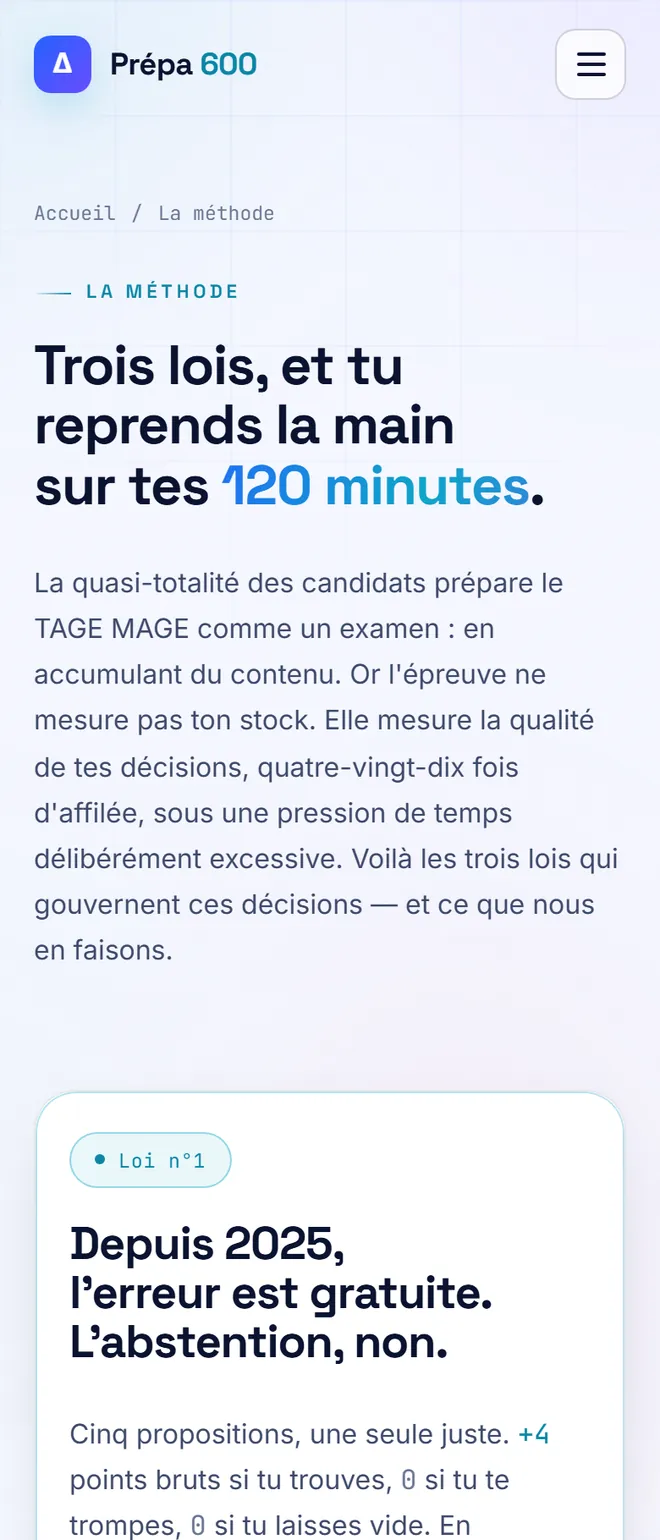
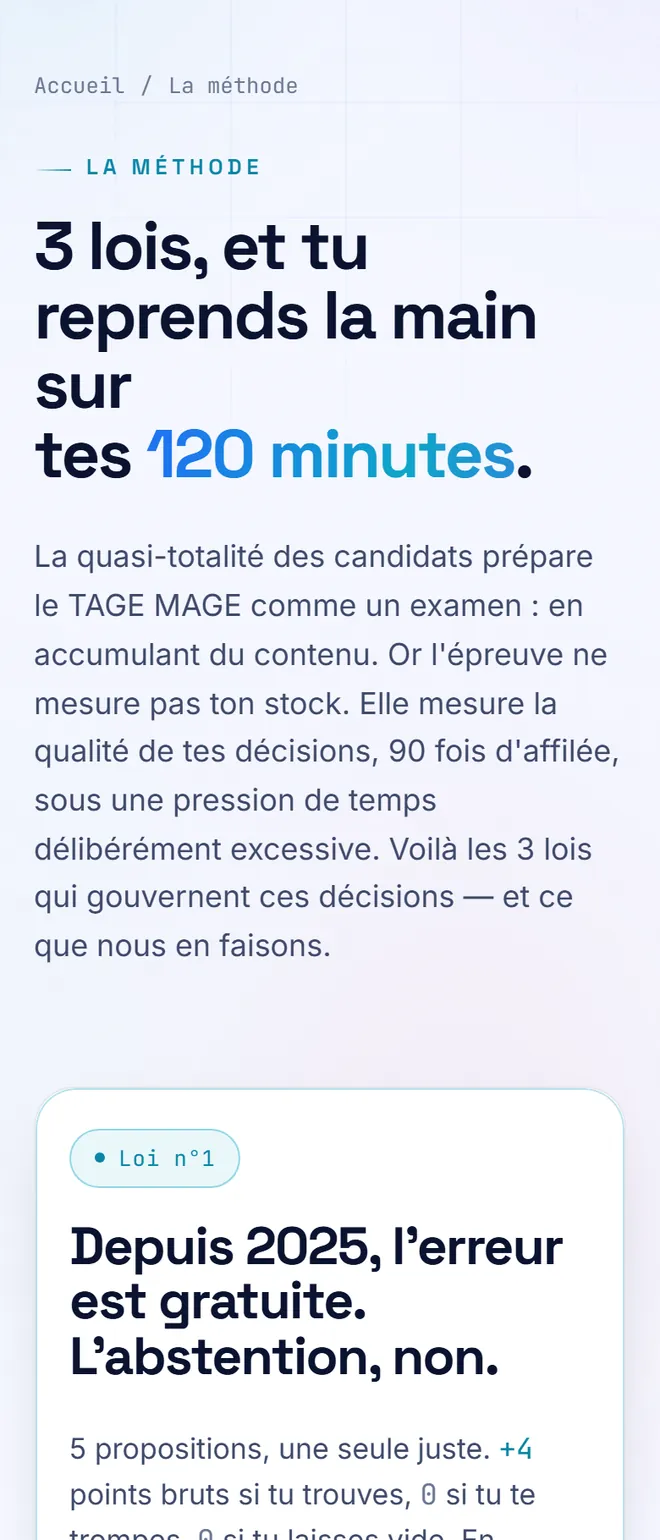
Les six ecrans du recit Prepa 600 illustrent enfin leur etape
« On ne sait pas du tout pourquoi ca arrive sur calcul ton score », « le
visuel, ce n est que du texte » (Anthony). Les ecrans ne racontaient pas la
meme chose que les etapes, et ils etaient cadres sur le haut des pages --
c est-a-dire sur un titre et du texte.

Nouvelle attribution : l idee → l accueil, la methode a lire → methode, les
six sous-tests → reviser, le prix → tarifs, ce que le premier utilisateur
decouvre → le simulateur, les pages que les assistants citent → le
convertisseur d ecoles. Le test lui-meme et le rapport ne sont pas
capturables : sans compte, ils renvoient l ecran de connexion (verifie).

Et le cadrage ne se choisit plus a la main :
- capturer_cdp.py releve les DEBUTS DE BLOCS de la page et l offset du pied,
  et les ecrit a cote de la capture ;
- rafraichir.py fait glisser la fenetre sur toute la page, note chaque
  position (couleur + densite de contours), garde la meilleure, la cale sur
  un debut de bloc et refuse de finir sur le pied de page.
Le rafraichissement hebdomadaire refera donc ce choix tout seul.

Resultat : des curseurs, un score sur 600, le top 3 des ecoles, des cartes
entieres -- plus un seul ecran coupe au milieu d une carte.

diff --git a/src/pages/prepa-600.html b/src/pages/prepa-600.html
@@ -31,7 +31,7 @@ modifie: 2026-09-06
 <section class="sec sec-filet recit" id="recit">
   <div class="wrap recit-grille" data-recit>
     <div class="recit-colle">
-      <div class="tel tel-grand"><div class="tel-ecran recit-tel"><span class="tel-encoche" aria-hidden="true"></span><img class="actif" src="/assets/img/p600-accueil-tel.webp" alt="[[L'accueil||Home]]" data-page="prepa600.com"><img src="/assets/img/p600-methode-tel.webp" alt="[[La méthode||The method]]" data-page="prepa600.com/methode.html"><img src="/assets/img/p600-diagnostic-tel.webp" alt="[[Le test blanc||The mock test]]" data-page="prepa600.com/diagnostic.html"><img src="/assets/img/p600-tarifs-tel.webp" alt="[[Les tarifs||Prices]]" data-page="prepa600.com/tarifs.html"><img src="/assets/img/p600-calcul-tel.webp" alt="[[Le calcul du score||The score calculator]]" data-page="prepa600.com/calcul-score.html"><img src="/assets/img/p600-questions-tel.webp" alt="[[Les questions fréquentes||The FAQ]]" data-page="prepa600.com/questions-tage-mage.html"></div></div>
+      <div class="tel tel-grand"><div class="tel-ecran recit-tel"><span class="tel-encoche" aria-hidden="true"></span><img class="actif" src="/assets/img/p600-accueil-tel.webp" alt="[[L'accueil||Home]]" data-page="prepa600.com"><img src="/assets/img/p600-methode-tel.webp" alt="[[La méthode||The method]]" data-page="prepa600.com/methode.html"><img src="/assets/img/p600-reviser-tel.webp" alt="[[Les six fiches de révision, une par sous-test||The six revision sheets, one per sub-test]]" data-page="prepa600.com/reviser.html"><img src="/assets/img/p600-tarifs-tel.webp" alt="[[Les tarifs||Prices]]" data-page="prepa600.com/tarifs.html"><img src="/assets/img/p600-simulateur-tel.webp" alt="[[Le simulateur : les points laissés sur la table||The simulator: the points left on the table]]" data-page="prepa600.com/simulateur.html"><img src="/assets/img/p600-score-ecoles-tel.webp" alt="[[Le convertisseur : quel score pour quelle école||The converter: which score for which school]]" data-page="prepa600.com/score-ecoles.html"></div></div>
       <p class="recit-leg"><span data-recit-leg>prepa600.com</span> · [[aujourd'hui||today]]</p>
     </div>
     <ol class="recit-etapes">
@@ -40,7 +40,7 @@ modifie: 2026-09-06
       <li class="recit-etape" data-ecran="2"><time datetime="2026-08-30">[[30 août||30 August]]</time><h3>[[L'épreuve, écrite.||The test, written.]]</h3><p>[[Les <b>six sous-tests</b> de l'épreuve officielle, <b>six blancs complets</b>, et la plateforme de bout en bout : comptes, chronomètre côté serveur, rapports, pilotage.||The <b>six sub-tests</b> of the official exam, <b>six complete mock tests</b>, and the platform end to end: accounts, server-side timer, reports, dashboard.]]</p><p class="recit-fait"><b>6</b> [[blancs complets||complete mock tests]]</p></li>
       <li class="recit-etape" data-ecran="3"><time datetime="2026-08-31">[[31 août||31 August]]</time><h3>[[Un seul prix.||One price.]]</h3><p>[[<b>{{f:p600.prix}} €</b>, une seule fois, <b>{{f:p600.mois}} mois</b> d'accès, sans abonnement ; tarif boursier {{f:p600.prix_boursier}} €. La caisse ouvre l'accès à la seconde.||<b>€{{f:p600.prix}}</b>, paid once, <b>{{f:p600.mois}} months</b> of access, no subscription; scholarship price €{{f:p600.prix_boursier}}. Checkout opens access within the second.]]</p><p class="recit-fait"><b>{{f:p600.prix}} €</b> [[une seule fois||paid once]]</p></li>
       <li class="recit-etape" data-ecran="4"><time datetime="2026-08-31">[[31 août, le soir||31 August, evening]]</time><h3>[[Le premier utilisateur.||The first user.]]</h3><p>[[Le soir même, <b>un premier compte s'ouvre</b> et un premier blanc se joue. <b>Six jours</b> entre l'idée et son premier candidat.||That same evening, <b>a first account opens</b> and a first mock test is taken. <b>Six days</b> between the idea and its first candidate.]]</p><p class="recit-fait"><b>J+6</b> [[premier compte||first account]]</p></li>
-      <li class="recit-etape" data-ecran="5"><time datetime="{{f:total.releve}}">[[Aujourd'hui||Today]]</time><h3>[[Trouvé sans publicité.||Found without ads.]]</h3><p>[[Les pages sont écrites pour être lues par les <b>assistants IA</b> autant que par Google : ils citent Prépa 600 parmi les premiers, et des comptes s'ouvrent <b>sans une publicité</b>. La banque grandit : <b>{{f:p600.questions}} questions</b>, <b>{{f:p600.blancs}} blancs</b>.||The pages are written to be read by <b>AI assistants</b> as much as by Google: they cite Prépa 600 among the first, and accounts open <b>without a single ad</b>. The bank grows: <b>{{f:p600.questions}} questions</b>, <b>{{f:p600.blancs}} mock tests</b>.]]</p><p class="recit-fait"><b>{{f:p600.questions}}</b> [[questions écrites||questions written]]</p></li>
+      <li class="recit-etape" data-ecran="5"><time datetime="{{f:total.releve}}">[[Aujourd'hui||Today]]</time><h3>[[Trouvé sans publicité.||Found without ads.]]</h3><p>[[Des pages comme celle-ci sont écrites pour être lues par les <b>assistants IA</b> autant que par Google : ils citent Prépa 600 parmi les premiers, et des comptes s'ouvrent <b>sans une publicité</b>. La banque grandit : <b>{{f:p600.questions}} questions</b>, <b>{{f:p600.blancs}} blancs</b>.||Pages like this one are written to be read by <b>AI assistants</b> as much as by Google: they cite Prépa 600 among the first, and accounts open <b>without a single ad</b>. The bank grows: <b>{{f:p600.questions}} questions</b>, <b>{{f:p600.blancs}} mock tests</b>.]]</p><p class="recit-fait"><b>{{f:p600.questions}}</b> [[questions écrites||questions written]]</p></li>
     </ol>
   </div>
 </section>

diff --git a/public/fr/prepa-600/index.html b/public/fr/prepa-600/index.html
@@ -192,7 +192,7 @@
 <section class="sec sec-filet recit" id="recit">
   <div class="wrap recit-grille" data-recit>
     <div class="recit-colle">
-      <div class="tel tel-grand"><div class="tel-ecran recit-tel"><span class="tel-encoche" aria-hidden="true"></span><img width="660" height="1540" loading="eager" decoding="async" class="actif" src="/assets/img/p600-accueil-tel.webp?v=c9694b99" alt="L'accueil" data-page="prepa600.com"><img width="660" height="1540" loading="eager" decoding="async" src="/assets/img/p600-methode-tel.webp?v=205338ab" alt="La méthode" data-page="prepa600.com/methode.html"><img width="660" height="1540" loading="eager" decoding="async" src="/assets/img/p600-diagnostic-tel.webp?v=8518ea68" alt="Le test blanc" data-page="prepa600.com/diagnostic.html"><img width="660" height="1540" loading="eager" decoding="async" src="/assets/img/p600-tarifs-tel.webp?v=931468d7" alt="Les tarifs" data-page="prepa600.com/tarifs.html"><img width="660" height="1540" loading="eager" decoding="async" src="/assets/img/p600-calcul-tel.webp?v=139f78f8" alt="Le calcul du score" data-page="prepa600.com/calcul-score.html"><img width="660" height="1540" loading="eager" decoding="async" src="/assets/img/p600-questions-tel.webp?v=b2ea3d62" alt="Les questions fréquentes" data-page="prepa600.com/questions-tage-mage.html"></div></div>
+      <div class="tel tel-grand"><div class="tel-ecran recit-tel"><span class="tel-encoche" aria-hidden="true"></span><img width="660" height="1540" loading="eager" decoding="async" class="actif" src="/assets/img/p600-accueil-tel.webp?v=566808f8" alt="L'accueil" data-page="prepa600.com"><img width="660" height="1540" loading="eager" decoding="async" src="/assets/img/p600-methode-tel.webp?v=be499328" alt="La méthode" data-page="prepa600.com/methode.html"><img width="660" height="1540" loading="eager" decoding="async" src="/assets/img/p600-reviser-tel.webp?v=7cb586dc" alt="Les six fiches de révision, une par sous-test" data-page="prepa600.com/reviser.html"><img width="660" height="1540" loading="eager" decoding="async" src="/assets/img/p600-tarifs-tel.webp?v=8d86a01a" alt="Les tarifs" data-page="prepa600.com/tarifs.html"><img width="660" height="1540" loading="eager" decoding="async" src="/assets/img/p600-simulateur-tel.webp?v=c245ecd2" alt="Le simulateur : les points laissés sur la table" data-page="prepa600.com/simulateur.html"><img width="660" height="1540" loading="eager" decoding="async" src="/assets/img/p600-score-ecoles-tel.webp?v=ee073fdf" alt="Le convertisseur : quel score pour quelle école" data-page="prepa600.com/score-ecoles.html"></div></div>
       <p class="recit-leg"><span data-recit-leg>prepa600.com</span> · aujourd'hui</p>
     </div>
     <ol class="recit-etapes">
@@ -201,7 +201,7 @@
       <li class="recit-etape" data-ecran="2"><time datetime="2026-08-30">30 août</time><h3>L'épreuve, écrite.</h3><p>Les <b>six sous-tests</b> de l'épreuve officielle, <b>six blancs complets</b>, et la plateforme de bout en bout : comptes, chronomètre côté serveur, rapports, pilotage.</p><p class="recit-fait"><b>6</b> blancs complets</p></li>
       <li class="recit-etape" data-ecran="3"><time datetime="2026-08-31">31 août</time><h3>Un seul prix.</h3><p><b>49 €</b>, une seule fois, <b>4 mois</b> d'accès, sans abonnement ; tarif boursier 20 €. La caisse ouvre l'accès à la seconde.</p><p class="recit-fait"><b>49 €</b> une seule fois</p></li>
       <li class="recit-etape" data-ecran="4"><time datetime="2026-08-31">31 août, le soir</time><h3>Le premier utilisateur.</h3><p>Le soir même, <b>un premier compte s'ouvre</b> et un premier blanc se joue. <b>Six jours</b> entre l'idée et son premier candidat.</p><p class="recit-fait"><b>J+6</b> premier compte</p></li>
-      <li class="recit-etape" data-ecran="5"><time datetime="2026-09-06">Aujourd'hui</time><h3>Trouvé sans publicité.</h3><p>Les pages sont écrites pour être lues par les <b>assistants IA</b> autant que par Google : ils citent Prépa 600 parmi les premiers, et des comptes s'ouvrent <b>sans une publicité</b>. La banque grandit : <b>2 700 questions</b>, <b>30 blancs</b>.</p><p class="recit-fait"><b>2 700</b> questions écrites</p></li>
+      <li class="recit-etape" data-ecran="5"><time datetime="2026-09-06">Aujourd'hui</time><h3>Trouvé sans publicité.</h3><p>Des pages comme celle-ci sont écrites pour être lues par les <b>assistants IA</b> autant que par Google : ils citent Prépa 600 parmi les premiers, et des comptes s'ouvrent <b>sans une publicité</b>. La banque grandit : <b>2 700 questions</b>, <b>30 blancs</b>.</p><p class="recit-fait"><b>2 700</b> questions écrites</p></li>
     </ol>
   </div>
 </section>

diff --git a/public/prepa-600/index.html b/public/prepa-600/index.html
@@ -192,7 +192,7 @@
 <section class="sec sec-filet recit" id="recit">
   <div class="wrap recit-grille" data-recit>
     <div class="recit-colle">
-      <div class="tel tel-grand"><div class="tel-ecran recit-tel"><span class="tel-encoche" aria-hidden="true"></span><img width="660" height="1540" loading="eager" decoding="async" class="actif" src="/assets/img/p600-accueil-tel.webp?v=c9694b99" alt="Home" data-page="prepa600.com"><img width="660" height="1540" loading="eager" decoding="async" src="/assets/img/p600-methode-tel.webp?v=205338ab" alt="The method" data-page="prepa600.com/methode.html"><img width="660" height="1540" loading="eager" decoding="async" src="/assets/img/p600-diagnostic-tel.webp?v=8518ea68" alt="The mock test" data-page="prepa600.com/diagnostic.html"><img width="660" height="1540" loading="eager" decoding="async" src="/assets/img/p600-tarifs-tel.webp?v=931468d7" alt="Prices" data-page="prepa600.com/tarifs.html"><img width="660" height="1540" loading="eager" decoding="async" src="/assets/img/p600-calcul-tel.webp?v=139f78f8" alt="The score calculator" data-page="prepa600.com/calcul-score.html"><img width="660" height="1540" loading="eager" decoding="async" src="/assets/img/p600-questions-tel.webp?v=b2ea3d62" alt="The FAQ" data-page="prepa600.com/questions-tage-mage.html"></div></div>
+      <div class="tel tel-grand"><div class="tel-ecran recit-tel"><span class="tel-encoche" aria-hidden="true"></span><img width="660" height="1540" loading="eager" decoding="async" class="actif" src="/assets/img/p600-accueil-tel.webp?v=566808f8" alt="Home" data-page="prepa600.com"><img width="660" height="1540" loading="eager" decoding="async" src="/assets/img/p600-methode-tel.webp?v=be499328" alt="The method" data-page="prepa600.com/methode.html"><img width="660" height="1540" loading="eager" decoding="async" src="/assets/img/p600-reviser-tel.webp?v=7cb586dc" alt="The six revision sheets, one per sub-test" data-page="prepa600.com/reviser.html"><img width="660" height="1540" loading="eager" decoding="async" src="/assets/img/p600-tarifs-tel.webp?v=8d86a01a" alt="Prices" data-page="prepa600.com/tarifs.html"><img width="660" height="1540" loading="eager" decoding="async" src="/assets/img/p600-simulateur-tel.webp?v=c245ecd2" alt="The simulator: the points left on the table" data-page="prepa600.com/simulateur.html"><img width="660" height="1540" loading="eager" decoding="async" src="/assets/img/p600-score-ecoles-tel.webp?v=ee073fdf" alt="The converter: which score for which school" data-page="prepa600.com/score-ecoles.html"></div></div>
       <p class="recit-leg"><span data-recit-leg>prepa600.com</span> · today</p>
     </div>
     <ol class="recit-etapes">
@@ -201,7 +201,7 @@
       <li class="recit-etape" data-ecran="2"><time datetime="2026-08-30">30 August</time><h3>The test, written.</h3><p>The <b>six sub-tests</b> of the official exam, <b>six complete mock tests</b>, and the platform end to end: accounts, server-side timer, reports, dashboard.</p><p class="recit-fait"><b>6</b> complete mock tests</p></li>
       <li class="recit-etape" data-ecran="3"><time datetime="2026-08-31">31 August</time><h3>One price.</h3><p><b>€49</b>, paid once, <b>4 months</b> of access, no subscription; scholarship price €20. Checkout opens access within the second.</p><p class="recit-fait"><b>49 €</b> paid once</p></li>
       <li class="recit-etape" data-ecran="4"><time datetime="2026-08-31">31 August, evening</time><h3>The first user.</h3><p>That same evening, <b>a first account opens</b> and a first mock test is taken. <b>Six days</b> between the idea and its first candidate.</p><p class="recit-fait"><b>J+6</b> first account</p></li>
-      <li class="recit-etape" data-ecran="5"><time datetime="2026-09-06">Today</time><h3>Found without ads.</h3><p>The pages are written to be read by <b>AI assistants</b> as much as by Google: they cite Prépa 600 among the first, and accounts open <b>without a single ad</b>. The bank grows: <b>2,700 questions</b>, <b>30 mock tests</b>.</p><p class="recit-fait"><b>2,700</b> questions written</p></li>
+      <li class="recit-etape" data-ecran="5"><time datetime="2026-09-06">Today</time><h3>Found without ads.</h3><p>Pages like this one are written to be read by <b>AI assistants</b> as much as by Google: they cite Prépa 600 among the first, and accounts open <b>without a single ad</b>. The bank grows: <b>2,700 questions</b>, <b>30 mock tests</b>.</p><p class="recit-fait"><b>2,700</b> questions written</p></li>
     </ol>
   </div>
 </section>

diff --git a/public/fr/index.html b/public/fr/index.html
@@ -213,7 +213,7 @@
         <ul class="chiffres">
           <li><b>2 700</b> questions</li>
           <li><b>16</b> fonctions serveur</li>
-          <li><b>28</b> pages</li>
+          <li><b>27</b> pages</li>
         </ul>
         <div class="actions">
           <a class="btn btn-p" href="/fr/prepa-600/">Voir le cas en détail</a>

diff --git a/public/index.html b/public/index.html
@@ -213,7 +213,7 @@
         <ul class="chiffres">
           <li><b>2,700</b> questions</li>
           <li><b>16</b> server functions</li>
-          <li><b>28</b> pages</li>
+          <li><b>27</b> pages</li>
         </ul>
         <div class="actions">
           <a class="btn btn-p" href="/prepa-600/">See the case in detail</a>

diff --git a/outils/rafraichir.py b/outils/rafraichir.py
@@ -45,6 +45,7 @@ import re
 import subprocess
 import sys
 
+import numpy as np
 from PIL import Image
 # une page entière à l'échelle 2 dépasse la garde anti-« bombe » de Pillow (195 Mpx pour l'accueil Molière)
 Image.MAX_IMAGE_PIXELS = None
@@ -189,15 +190,20 @@ ZONES = [
      ["--largeur", "1280", "--hauteur", "1000", "--echelle", "2", "--clic", "Professeur en fonction", "--clic", "Français",
       "--clic", "Anglais", "--clic", "Des enfants et des adolescents",
       "--long", "30000", "--attente", "5"], 1600),  # depuis le HAUT de la page (06/09 : « on ne voit pas le haut »)
-    # les six écrans du récit Prépa 600 (06/09) : le haut de six pages, en
-    # 600 px pour rester net dans un téléphone de 300 px CSS, rognés à 1 400 px
-    # de haut (l'écran ne déroule pas : au-delà, c'est du décodage pour rien)
-    ("p600-accueil-tel", P600 + "/", ["--mobile", "--long", "4000", "--attente", "6"], 600, 1400),
-    ("p600-methode-tel", P600 + "/methode.html", ["--mobile", "--long", "4000", "--attente", "5"], 600, 1400),
-    ("p600-diagnostic-tel", P600 + "/diagnostic.html", ["--mobile", "--long", "4000", "--attente", "5"], 600, 1400),
-    ("p600-tarifs-tel", P600 + "/tarifs.html", ["--mobile", "--long", "4000", "--attente", "5"], 600, 1400),
-    ("p600-calcul-tel", P600 + "/calcul-score.html", ["--mobile", "--long", "4000", "--attente", "5"], 600, 1400),
-    ("p600-questions-tel", P600 + "/questions-tage-mage.html", ["--mobile", "--long", "4000", "--attente", "5"], 600, 1400),
+    # les six écrans du récit Prépa 600. Chacun ILLUSTRE son étape (07/09 :
+    # « on ne sait pas du tout pourquoi ça arrive sur calcul ton score ») :
+    # l'idée → l'accueil, la méthode à lire → methode, les six sous-tests →
+    # reviser, le prix → tarifs, ce que le premier utilisateur découvre →
+    # simulateur, les pages que les assistants citent → score-ecoles.
+    # Le dernier champ demande le cadrage MESURÉ : le haut d'une page n'est
+    # qu'un titre et du texte. Le test lui-même et le rapport ne sont pas
+    # capturables : sans compte, ils renvoient l'écran de connexion.
+    ("p600-accueil-tel", P600 + "/", ["--mobile", "--long", "4000", "--attente", "6"], 660, 1540),
+    ("p600-methode-tel", P600 + "/methode.html", ["--mobile", "--long", "9000", "--attente", "5"], 660, 1540, True),
+    ("p600-reviser-tel", P600 + "/reviser.html", ["--mobile", "--long", "9000", "--attente", "5"], 660, 1540, True),
+    ("p600-tarifs-tel", P600 + "/tarifs.html", ["--mobile", "--long", "4000", "--attente", "5"], 660, 1540),
+    ("p600-simulateur-tel", P600 + "/simulateur.html", ["--mobile", "--long", "9000", "--attente", "5"], 660, 1540, True),
+    ("p600-score-ecoles-tel", P600 + "/score-ecoles.html", ["--mobile", "--long", "9000", "--attente", "5"], 660, 1540, True),
 ]
 
 
@@ -207,6 +213,66 @@ def capturer(nom, url, options):
     ok = os.path.exists(sortie) and os.path.getsize(sortie) > 0
     print(("  ok    " if ok else "  ÉCHEC ") + nom + "  " + (r.stdout.strip().splitlines()[-1] if r.stdout.strip() else r.stderr.strip()[-200:]))
     return ok
+
+
+def reperes_blocs(nom):
+    """Les débuts de blocs relevés dans le navigateur à la capture."""
+    chemin = os.path.join(BRUT, nom + ".png.blocs.json")
+    if not os.path.exists(chemin):
+        return [], 0
+    try:
+        d = json.load(io.open(chemin, encoding="utf-8"))
+    except Exception:
+        return [], 0
+    if isinstance(d, dict):
+        return d.get("blocs", []), int(d.get("pied") or 0)
+    return d, 0
+
+
+def fenetre_visuelle(im, ratio, reperes=(), pied=0):
+    """Où cadrer un écran de téléphone : pas en haut de la page, c'est là qu'il
+    n'y a que du titre et du texte (Anthony, 07/09 : « baisse dans la page pour
+    prendre les écrans un peu attractifs, où il y a de la couleur »). On fait
+    glisser la fenêtre sur toute la capture et on garde celle qui a le plus de
+    COULEUR et de DÉTAIL — saturation moyenne et densité de contours. Le
+    rafraîchissement hebdomadaire le refait donc tout seul, même si les pages
+    changent."""
+    hauteur = int(im.width * ratio)
+    if im.height <= hauteur * 1.05:
+        return 0
+    n = 400
+    petite = im.resize((160, n), Image.LANCZOS)
+    a = np.asarray(petite.convert("RGB"), dtype=float) / 255.0
+    sat = (a.max(axis=2) - a.min(axis=2)).mean(axis=1)
+    g = np.asarray(petite.convert("L"), dtype=float)
+    bords = (np.abs(np.diff(g, axis=0, prepend=g[:1])) + np.abs(np.diff(g, axis=1, prepend=g[:, :1]))).mean(axis=1) / 255.0
+    note = 0.65 * sat / max(sat.max(), 1e-6) + 0.35 * bords / max(bords.max(), 1e-6)
+    pas = n / float(im.height)
+    large = max(1, int(hauteur * pas))
+    cumul = np.concatenate([[0], np.cumsum(note)])
+    meilleur, note_max = 0, -1.0
+    for i in range(int(im.height * 0.05 * pas), n - large):
+        m = (cumul[i + large] - cumul[i]) / large
+        if m > note_max:
+            note_max, meilleur = m, i
+    y = int(meilleur / pas)
+    # puis on cale le haut sur un DÉBUT DE BLOC relevé dans le navigateur.
+    # Sans ça, la fenêtre coupe une carte en deux et l'écran a l'air cassé
+    # (07/09 : « les visuels, je ne les trouve pas tops »). Le fond des pages
+    # est en dégradé : chercher une ligne unie ne donnait rien.
+    # la fenêtre doit finir AVANT le pied de page : un écran de vitrine qui
+    # se termine sur le pied a l'air vide (07/09)
+    plafond = im.height - hauteur
+    if pied and pied - hauteur > im.height * 0.05:
+        plafond = min(plafond, pied - hauteur)
+    possibles = [int(v) for v in reperes if 0 <= v <= plafond]
+    if possibles:
+        # parmi les débuts de bloc, celui dont la fenêtre est la mieux notée
+        def note_de(v):
+            i = int(v * pas)
+            return (cumul[min(n, i + large)] - cumul[i]) / large
+        return max(possibles, key=note_de)
+    return y
 
 
 def reduire(im, large, haut_max=None):
@@ -235,22 +301,30 @@ def convertir(nom, mobile):
     print("  → %s : %d fichier(s), %d Ko" % (nom, len(sorties), poids))
 
 
-def convertir_zone(nom, large_defaut, haut_max=None):
-    """`haut_max` est donné pour `large_defaut` : il suit la largeur retenue."""
+def convertir_zone(nom, large_defaut, haut_max=None, auto=False):
+    """`haut_max` est donné pour `large_defaut` : il suit la largeur retenue.
+    `auto` : le cadrage part de la fenêtre la plus regardable, pas du haut."""
     src = os.path.join(BRUT, nom + ".png")
     if not os.path.exists(src):
         return
     im = Image.open(src).convert("RGB")
     large = largeur(nom, large_defaut)
-    petite = reduire(im, large, round(haut_max * large / large_defaut) if haut_max else None)
+    haut = round(haut_max * large / large_defaut) if haut_max else None
+    if auto and haut:
+        blocs, pied = reperes_blocs(nom)
+        y = fenetre_visuelle(im, haut / float(large), blocs, pied)
+        if y:
+            print("    · cadré à %d px (%.0f %% de la page), pas en haut" % (y, 100.0 * y / im.height))
+        im = im.crop((0, y, im.width, im.height))
+    petite = reduire(im, large, haut)
     sorties = sauver(nom, petite, 80)
     poids = sum(os.path.getsize(os.path.join(IMG, f)) for f in sorties) // 1024
     print("  → %s : %s, %d fichier(s), %d Ko" % (nom, petite.size, len(sorties), poids))
 
 
-def zone(nom, url, options, large=390, haut_max=None):
+def zone(nom, url, options, large=390, haut_max=None, auto=False):
     if capturer(nom, url, options):
-        convertir_zone(nom, large, haut_max)
+        convertir_zone(nom, large, haut_max, auto)
 
 
 def manuelles():
@@ -293,7 +367,7 @@ def reconvertir():
         for nom, _, options in CAPTURES[fam]:
             convertir(nom, "--mobile" in options)
     for z in ZONES:
-        convertir_zone(z[0], z[3], z[4] if len(z) > 4 else None)
+        convertir_zone(z[0], z[3], z[4] if len(z) > 4 else None, z[5] if len(z) > 5 else False)
     print("== prises à la main")
     manuelles()
     degraisser()

diff --git a/outils/capturer_cdp.py b/outils/capturer_cdp.py
@@ -133,6 +133,26 @@ JS_MASQUER = r"""
 """
 
 
+JS_REPERES = r"""
+(function (y0, densite) {
+  var vus = [], sel = 'section, article, main > div, [class*="bloc"], [class*="carte"], [class*="section"]';
+  document.querySelectorAll(sel).forEach(function (e) {
+    var r = e.getBoundingClientRect();
+    if (r.height < 120 || r.width < window.innerWidth * 0.5) return;
+    vus.push(Math.round((r.top + window.scrollY - y0) * densite));
+  });
+  vus = vus.filter(function (v, i, t) { return v >= 0 && t.indexOf(v) === i; });
+  vus.sort(function (a, b) { return a - b; });
+  // on fusionne les repères trop proches (des blocs emboîtés)
+  vus = vus.filter(function (v, i) { return i === 0 || v - vus[i - 1] > 24; });
+  // le pied de page : un écran de vitrine n'a pas à finir dessus
+  var f = document.querySelector('footer, [class*="pied"], [class*="footer"]');
+  var pied = f ? Math.round((f.getBoundingClientRect().top + window.scrollY - y0) * densite) : 0;
+  return {blocs: vus, pied: pied};
+})(%d, %d)
+"""
+
+
 def main():
     ap = argparse.ArgumentParser()
     ap.add_argument("url")
@@ -267,6 +287,14 @@ def main():
             "clip": {"x": 0, "y": y, "width": largeur, "height": long_, "scale": 1}})
         with open(a.sortie, "wb") as f:
             f.write(base64.b64decode(r["data"]))
+        # Où commencent les blocs de la page. Cadrer un écran de téléphone au
+        # jugé coupe une carte en deux ; avec ces repères, la fenêtre part
+        # toujours d'un début de section (07/09).
+        reperes = c.evaluer(JS_REPERES % (y, a.echelle or (2 if a.mobile else 1))) or []
+        if reperes:
+            with open(a.sortie + ".blocs.json", "w", encoding="utf-8") as f:
+                json.dump(reperes, f)
+            print("  %d repères de bloc" % len(reperes))
         print("%s : %d octets (%d × %d px CSS)" % (os.path.basename(a.sortie), os.path.getsize(a.sortie), largeur, long_))
         # une capture trouée ne se voit pas au poids : on mesure des bandes
         # uniformes (une section qui n'a pas été peinte, une fin vide)
